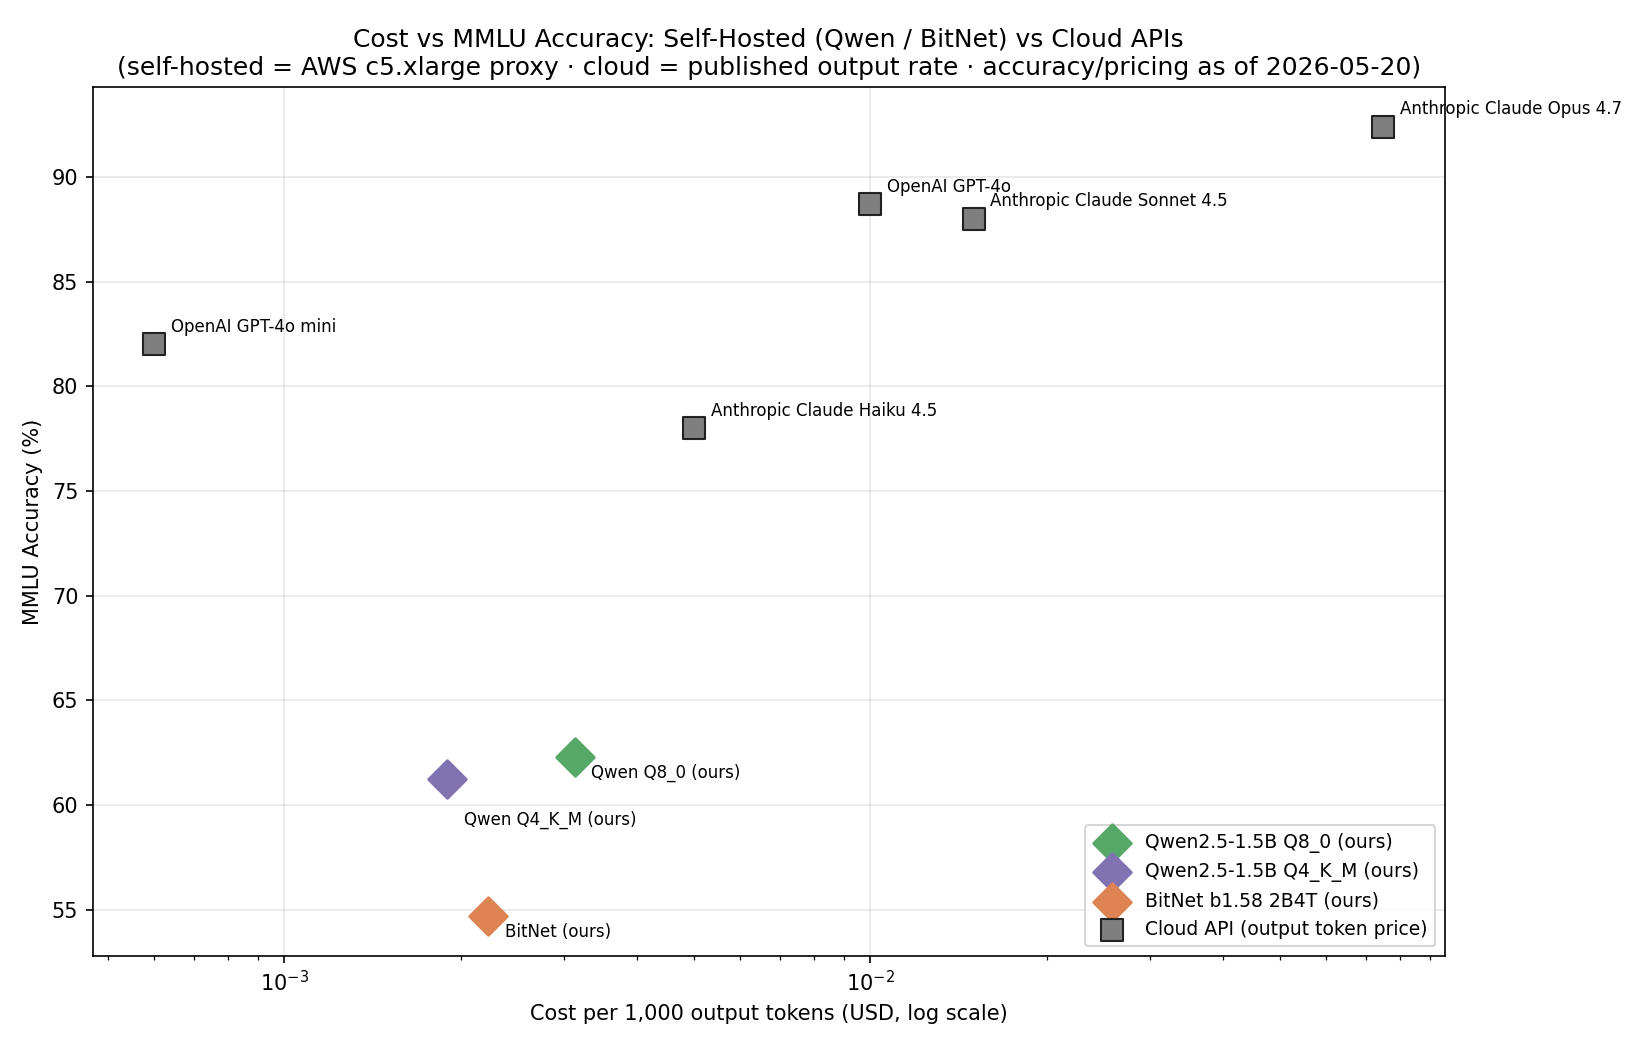
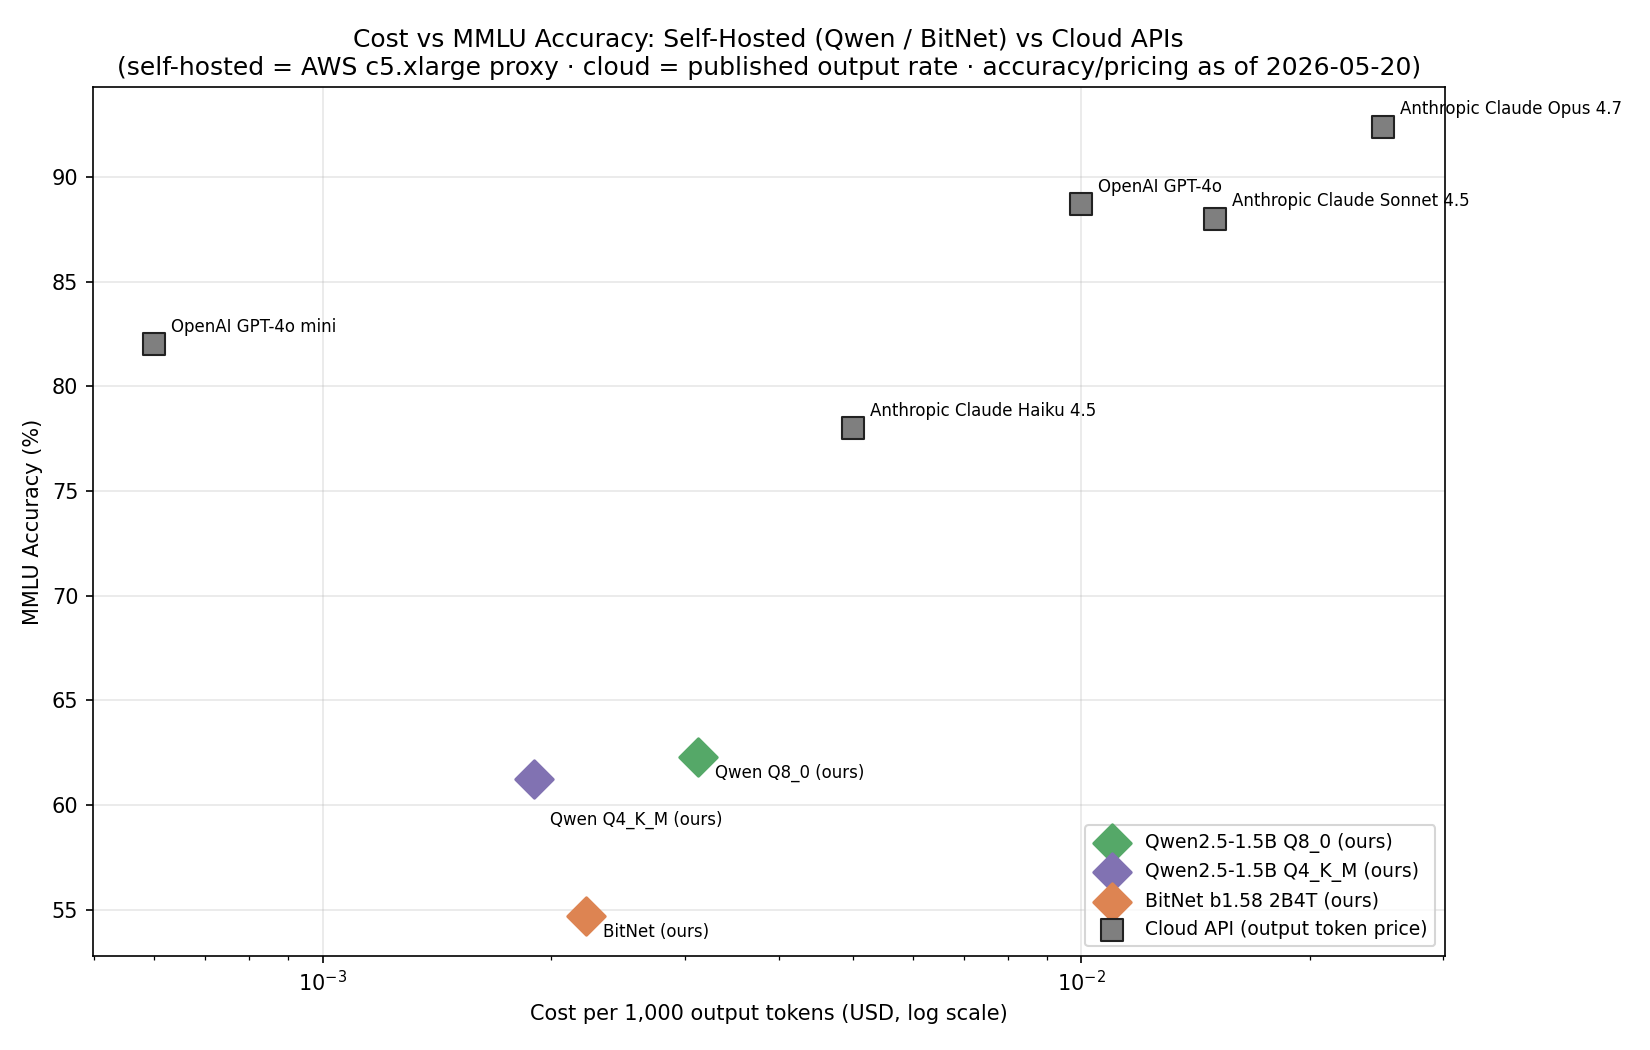
Phase 6: re-verify Anthropic / OpenAI / AWS pricing constants
Biggest change: Anthropic Claude Opus 4.7 output is $25/MTok now,
not $75.  The old $75 was Opus 4.1's number, accidentally carried
into the 4.7 entry; Anthropic aligned the entire Opus 4.5+ family
at $25 output between 2026-05-15 and 2026-05-24.  `cloud_cost_*`
plots regenerate with Opus visibly closer to Sonnet on the log
axis.

Verified unchanged:
  * Anthropic Haiku 4.5 ($5) and Sonnet 4.5 ($15)
  * OpenAI GPT-4o ($10) and GPT-4o mini ($0.60)
  * AWS c5.xlarge on-demand $0.170/hr (the DEFAULT_HARDWARE_RATE)

New AWS_ON_DEMAND_RATES dict captures the per-instance us-east-1
Linux on-demand rates the cross-arch sweep will need:
  c5.xlarge $0.170 / c6a.xlarge $0.153 / c7g.xlarge $0.145
Not consumed by any plot yet — DEFAULT_HARDWARE_RATE still drives
comparison_table.csv's cost_per_1k_tokens column — but ready for
the §6.1 discussion table and any per-arch cost-accuracy plot
that might land later.

Bumps CLOUD_API_PRICING_DATE to 2026-05-24.  Documents the
re-verification + sources in PLAN.md Phase 6.

diff --git a/scripts/compare_runs.py b/scripts/compare_runs.py
@@ -47,8 +47,22 @@ DEFAULT_QWEN_Q4_CSV = Path(__file__).parent.parent / "results" / "qwen_q4_step_m
 DEFAULT_QWEN_Q4_ACCURACY_JSON = Path(__file__).parent.parent / "results" / "accuracy_results_qwen_q4.json"
 
 # AWS c5.xlarge on-demand, us-east-1 (4 vCPUs — matches 4-thread benchmark condition)
-# Source: https://instances.vantage.sh/aws/ec2/c5.xlarge (retrieved 2026-05-08)
+# Source: https://instances.vantage.sh/aws/ec2/c5.xlarge (re-verified 2026-05-24:
+# unchanged from the 2026-05-08 snapshot — c5 is mature pricing).
 DEFAULT_HARDWARE_RATE = 0.170
+
+# Per-instance on-demand rates for the cross-architecture sweep
+# (Phase 6).  Not currently consumed by any plot — DEFAULT_HARDWARE_RATE
+# above still drives `cost_per_1k_tokens` in comparison_table.csv — but
+# kept here as the verified source-of-truth for the §6.1 discussion
+# table and for whenever per-arch cost-accuracy plots get added.
+# All us-east-1, Linux, on-demand.  Re-verify before publication.
+# Source: https://instances.vantage.sh/aws/ec2/<instance>   (2026-05-24)
+AWS_ON_DEMAND_RATES = {
+    "c5.xlarge":  0.170,  # Intel Xeon Skylake-SP, AVX-512
+    "c6a.xlarge": 0.153,  # AMD EPYC 7R13 Zen 3, AVX2
+    "c7g.xlarge": 0.145,  # AWS Graviton3 ARM Neoverse-V1, Neon/SVE
+}
 
 # US residential average electricity rate (EIA, 2026 estimate, $/kWh).
 # Used to convert CodeCarbon's energy_kwh into a dollar cost.  Override with
@@ -148,13 +162,18 @@ CROSS_ARCH_SOURCES = [
 #   OpenAI:     https://openai.com/api/pricing
 #   Anthropic:  https://www.anthropic.com/pricing#api
 # ─────────────────────────────────────────────────────────────────────────────
-CLOUD_API_PRICING_DATE = "2026-05-15"
+CLOUD_API_PRICING_DATE = "2026-05-24"
 CLOUD_API_PRICING = {
     "OpenAI GPT-4o mini":          0.60,
     "Anthropic Claude Haiku 4.5":  5.00,
     "OpenAI GPT-4o":              10.00,
     "Anthropic Claude Sonnet 4.5": 15.00,
-    "Anthropic Claude Opus 4.7":  75.00,
+    # Opus 4.7 was cut from $75 to $25 between the original 2026-05-15
+    # snapshot and the 2026-05-24 re-verification (Anthropic aligned
+    # the entire Opus 4.5+ family at $25 output; the old $75 was Opus
+    # 4.1's number).  Re-verify against the docs.claude.com/pricing
+    # table before publication — Anthropic refreshes periodically.
+    "Anthropic Claude Opus 4.7":  25.00,
 }
 
 # ─────────────────────────────────────────────────────────────────────────────

diff --git a/PLAN.md b/PLAN.md
@@ -617,11 +617,30 @@ Tasks:
       `make aws-benchmark-{c5,c6a,c7g}` runs, the c5/c6a/c7g bars
       activate automatically.  Skip-only-baseline branch keeps the
       plot from being noise when only the Windows row exists.
-- [ ] Re-verify the AWS pricing constants in
+- [x] Re-verify the AWS pricing constants in
       `scripts/compare_runs.py:CLOUD_API_PRICING` and the hardware-rate
       default ($0.170/hr c5.xlarge on-demand) against current AWS
       pricing.  Cross-arch sweep gives the report a natural place to
       report all three on-demand rates in a table.
+      Verified 2026-05-24:
+      * **Anthropic Claude Opus 4.7 output cut 3×: $75 → $25 / MTok.**
+        Entire Opus 4.5+ family aligned at $25 (the old $75 was Opus
+        4.1's number; we'd been quoting it accidentally).  Haiku 4.5
+        ($5) and Sonnet 4.5 ($15) unchanged. `CLOUD_API_PRICING` and
+        `CLOUD_API_PRICING_DATE` updated; the cloud cost plots
+        (`cloud_cost_comparison.png`, `cloud_cost_accuracy.png`) move
+        Opus visibly closer to Sonnet on the log axis.
+      * OpenAI GPT-4o ($10) and GPT-4o mini ($0.60) unchanged.
+      * AWS on-demand us-east-1 Linux rates (vantage.sh): c5.xlarge
+        $0.170 (unchanged), c6a.xlarge **$0.153**, c7g.xlarge
+        **$0.145**.  Captured as the new `AWS_ON_DEMAND_RATES` dict in
+        `compare_runs.py` next to `DEFAULT_HARDWARE_RATE` — not yet
+        consumed by any plot, but ready for the per-arch cost work
+        and for the §6.1 discussion table.  Note: PLAN.md's earlier
+        "$0.1156/hr c7g" reference in the Phase 5 cost-sensitivity
+        bullet was stale; the cost-ordering invariant the bullet
+        proves is unaffected (any per-row rescaling preserves the
+        ordering by construction).
 - [ ] Update REPORT.md §6.1 with measured cross-architecture
       results.  Three possible outcomes, each strengthens the report:
       (a) Pareto ranking stable across architectures (the